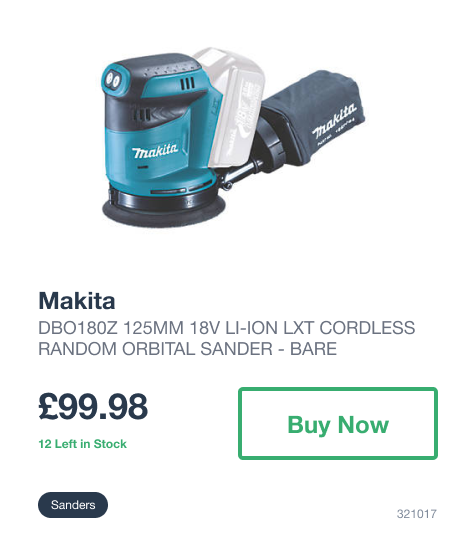
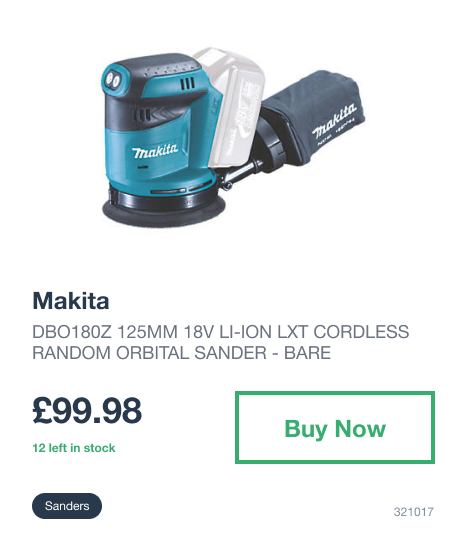
Finish implicit grid article

diff --git a/_notes/Utilize the Implicit Grid for consistent design of UI Elements.md b/_notes/Utilize the Implicit Grid for consistent design of UI Elements.md
@@ -1,0 +1,51 @@
+---
+title: Utilize the Implicit Grid for consistent design of UI Elements
+---
+
+An article inspired while working on 
+[[Vue Fundamentals Portfolio Project Design Assets]]
+
+## Intro
+[[Vue Fundamentals]] is a course that [[Kevin Cunningham]]is producing that I am advising him on. Part of that process is developing a [[Portfolio Project]] that learners can complete that will prove to themselves and others that they understand Vue at a fundamental level.
+
+Kevin made [a Vue starter app](https://github.com/doingandlearning/vue-fundamentals-challenge) that will serve up the data needed for the challenge.
+
+## Design Product Cards
+The project involves a hardware store that needs an index of product cards displayed with relevant information.
+
+It needed designs which is where I contribute. I started with the product card.
+
+Here's V1: 
+![first version of the product card](./product-card-old.png)
+
+This looks alright. I started with the [[typography]] and designated the font sizes that I would use for the design. Consistent [[font size]] is key. 
+
+The most significant aspects of the card are the price and the action for people to buy. Everything else falls around these two elements.
+
+![typography definitions for the Vue Project](./vue-fundamentals-typography.png)
+
+A big flaw in this design is the use of negative space throughout the card. Just like with Typography, negative space and spacing should consistent in your application.
+
+You might not notice that there are quite a few different spacings going on but over-all it combines into a sloppy looking card where 'something is off.'
+
+![Spacing highlighted in the product card](./product-card-spacing.png)
+
+When the spacing is highlighted, you can see really well that the spacing in the card is sloppy. Nothing is consistent and this results in the card looking off.
+
+This is where [[implicit grid]] helps. The changes are subtle but the consistency in spacing has a large impact on the overall presentation of an element.
+
+This becomes more and more impactful when you multiple this design across your whole site.
+
+![implicit grid applied](./product-card-detail.png)
+
+
+Here you can see the explicit pixel spacings applied to the card:
+
+
+![implicit grid applied to card with spacing shown](./product-card-detail-spacing.png)
+
+You'll notice that not everything is exactly lined up using the grid. This is because you need to zoom out and look at the over all design to see if it's working and what isn't given your constraints.
+
+The [[implicit grid]] gives you a starting point to stay consistent across elements. In this case you can see that elements that are closely related are given 12px space in-between. This type of decision can be carried out throughout the site.
+
+What do you like or don't like about this design? What would you change?

diff --git a/_notes/design.md b/_notes/design.md
@@ -4,3 +4,12 @@ title: Design
 
 - [[Course banners and CTAs]]
 - [[Design Assets]]
+
+## Articles
+
+- [[Utilize the Implicit Grid for consistent design of UI Elements]]
+
+[//begin]: # "Autogenerated link references for markdown compatibility"
+[Design Assets]: Design Assets "Design Assets"
+[Utilize the Implicit Grid for consistent design of UI Elements]: Utilize the Implicit Grid for consistent design of UI Elements "Utilize the Implicit Grid for consistent design of UI Elements"
+[//end]: # "Autogenerated link references"

diff --git a/_notes/Design Assets.md b/_notes/Design Assets.md
@@ -2,8 +2,9 @@
 title: Design Assets
 ---
 
-- [[egghead]] [[Vue Fundamentals Portfolio Project Design Assets]]
+
 
 [//begin]: # "Autogenerated link references for markdown compatibility"
 [egghead]: egghead "egghead"
+[Utilize the Implicit Grid for consistent design of UI Elements]: Utilize the Implicit Grid for consistent design of UI Elements "Utilize the Implicit Grid for consistent design of UI Elements"
 [//end]: # "Autogenerated link references"
